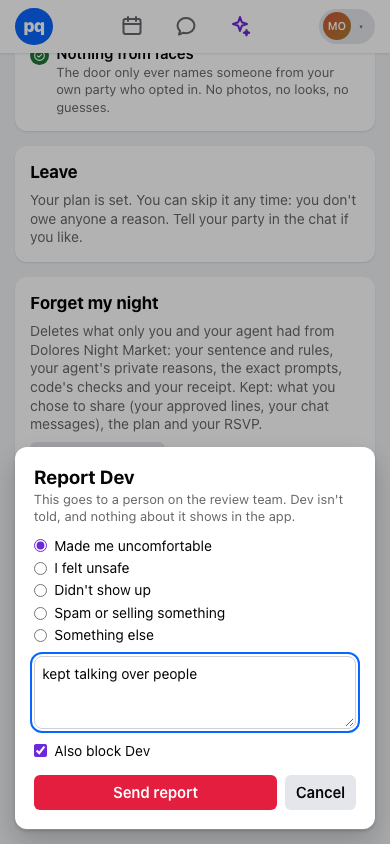
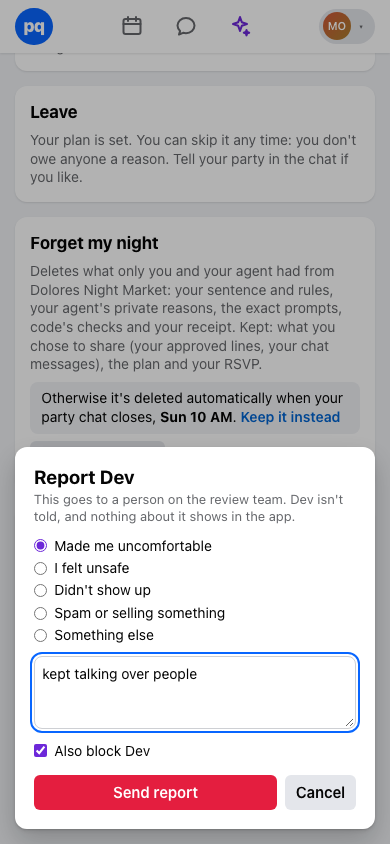
F43: Forget by default after the night
When a party chat closes, every member's private data from that night
is deleted automatically (with the store-wide scan), unless they chose
to keep it. /safety says when; /me and /safety say when it happened.

diff --git a/components/safety/ForgetNight.tsx b/components/safety/ForgetNight.tsx
@@ -14,7 +14,12 @@ const WHERE: Record<string, string> = {
 };
 
 /** "Forget my night": a two-step delete, then the scan's result in plain words. */
-export function ForgetNight({ partyId, title, done }: { partyId: string; title: string; done: boolean }) {
+export function ForgetNight({ partyId, title, done, auto = null }: { partyId: string; title: string; done: boolean; auto?: { at: string; keep: boolean; happened: boolean } | null }) {
+  const [keep, setKeep] = useState(auto?.keep ?? false);
+  const toggleKeep = async () => {
+    const r = await fetch("/api/forget/keep", { method: "POST", headers: { "content-type": "application/json" }, body: JSON.stringify({ partyId, keep: !keep }) });
+    if (r.ok) setKeep(!keep);
+  };
   const router = useRouter();
   const [step, setStep] = useState<"idle" | "confirm" | "busy">("idle");
   const [result, setResult] = useState<ForgetResult | null>(null);
@@ -62,7 +67,9 @@ export function ForgetNight({ partyId, title, done }: { partyId: string; title: 
   if (done) {
     return (
       <p className="mt-2 text-[14px] text-[var(--color-ink-2)]" data-testid="forget-done">
-        You asked Party Queue to forget your sentence, rules and reasons from {title}. They&apos;re gone.
+        {auto?.happened
+          ? `Your sentence, rules and reasons from ${title} were deleted automatically after the night. They're gone.`
+          : `You asked Party Queue to forget your sentence, rules and reasons from ${title}. They're gone.`}
       </p>
     );
   }
@@ -72,6 +79,20 @@ export function ForgetNight({ partyId, title, done }: { partyId: string; title: 
         Deletes what only you and your agent had from {title}: your sentence and rules, your agent&apos;s private reasons, the exact prompts, code&apos;s checks and your receipt. Kept: what you
         chose to share (your approved lines, your chat messages), the plan and your RSVP.
       </p>
+      {auto && (
+        <div className="rounded-[8px] bg-[var(--color-wash)] px-3 py-2 text-[14px]" data-testid="forget-auto">
+          {keep ? (
+            <>You chose to keep it after the night.</>
+          ) : (
+            <>
+              Otherwise it&apos;s deleted automatically when your party chat closes, <b>{auto.at}</b>.
+            </>
+          )}{" "}
+          <button onClick={toggleKeep} data-testid="forget-keep" className="font-semibold text-[var(--color-link)] hover:underline">
+            {keep ? "Delete it automatically after all" : "Keep it instead"}
+          </button>
+        </div>
+      )}
       {step === "idle" && (
         <button onClick={() => setStep("confirm")} data-testid="forget-start" className="press rounded-[6px] bg-[var(--color-btn-2)] px-3 py-2 text-[15px] font-semibold">
           Forget my night

diff --git a/lib/server/forget.ts b/lib/server/forget.ts
@@ -1,4 +1,5 @@
 import { flag } from "@/lib/flags";
+import { chatExpiry, demoNow } from "./clock";
 import { profile, store } from "./store";
 
 /**
@@ -127,3 +128,54 @@ export function forgetNight(partyId: string, userId: string): ForgetResult {
 }
 
 export const isForgotten = (partyId: string, userId: string) => store().forgotten.has(`${partyId}:${userId}`);
+
+/* ----------------------- F43: forget by default ----------------------- */
+
+/** "Sun 10 AM", in Pacific time where the demo night happens. */
+export function pacificLabel(iso: string): string {
+  const pt = new Date(Date.parse(iso) - 8 * 3600_000);
+  const h = pt.getUTCHours();
+  const m = pt.getUTCMinutes();
+  return `${["Sun", "Mon", "Tue", "Wed", "Thu", "Fri", "Sat"][pt.getUTCDay()]} ${h % 12 === 0 ? 12 : h % 12}${m ? `:${String(m).padStart(2, "0")}` : ""} ${h >= 12 ? "PM" : "AM"}`;
+}
+
+/** When a party's private data goes: when its chat closes (12 hours after the event). */
+export function forgetAt(partyId: string): string | null {
+  const s = store();
+  const party = s.parties.get(partyId);
+  if (!party || party.status !== "locked" || !party.planId) return null;
+  const chat = party.chatId ? s.chats.get(party.chatId) : undefined;
+  if (chat?.expiresAt) return chat.expiresAt;
+  const plan = s.plans.get(party.planId)!;
+  return chatExpiry(plan.date, plan.start, plan.end);
+}
+
+/** Delete every member's private data from parties whose night is over, except for anyone who chose to keep it. */
+export function autoForgetDue(now: number = demoNow()): number {
+  if (!flag("AUTO_FORGET") || !flag("FORGET_ME")) return 0;
+  const s = store();
+  let n = 0;
+  for (const party of s.parties.values()) {
+    const at = forgetAt(party.id);
+    if (!at || now < Date.parse(at)) continue;
+    for (const id of party.memberIds) {
+      const k = `${party.id}:${id}`;
+      if (s.forgotten.has(k) || s.keepNight.has(k)) continue;
+      forgetNight(party.id, id);
+      s.autoForgotten.add(k);
+      n++;
+    }
+  }
+  return n;
+}
+
+export function setKeepNight(partyId: string, userId: string, keep: boolean) {
+  const party = store().parties.get(partyId);
+  if (!party || !party.memberIds.includes(userId)) throw new Error("Not your party.");
+  const k = `${partyId}:${userId}`;
+  if (keep) store().keepNight.add(k);
+  else store().keepNight.delete(k);
+}
+
+export const keepsNight = (partyId: string, userId: string) => store().keepNight.has(`${partyId}:${userId}`);
+export const wasAutoForgotten = (partyId: string, userId: string) => store().autoForgotten.has(`${partyId}:${userId}`);

diff --git a/tests/unit/autoforget.test.ts b/tests/unit/autoforget.test.ts
@@ -1,0 +1,50 @@
+import { afterEach, beforeEach, describe, expect, it } from "vitest";
+import { DEMO_PARTY as D } from "@/fixtures";
+import { privatePhrases } from "@/lib/agents/audit";
+import { runParty } from "@/lib/agents/orchestrator";
+import { flag } from "@/lib/flags";
+import { setDemoNow } from "@/lib/server/clock";
+import { autoForgetDue, forgetAt, isForgotten, pacificLabel, scanStore, setKeepNight, wasAutoForgotten } from "@/lib/server/forget";
+import { joinQueue } from "@/lib/server/queue";
+import { resetStore, store } from "@/lib/server/store";
+
+const FIVE = ["dev", "ana", "kai", "zoe", "maya"];
+async function locked() {
+  resetStore();
+  for (const id of FIVE) await joinQueue({ userId: id, eventId: D.entryEventId, sentence: D.sentences[id]!, consentBridges: true, startTalk: false });
+  const pid = [...store().parties.keys()][0]!;
+  await runParty(pid, { paceMs: 0 });
+  return pid;
+}
+
+describe("forget by default after the night (F43)", () => {
+  beforeEach(() => {
+    process.env.PQ_PACE_MS = "0";
+  });
+  afterEach(() => setDemoNow(null));
+
+  it("is on by default", () => expect(flag("AUTO_FORGET")).toBe(true));
+
+  it("nothing goes before the chat closes; after, every member's private data is deleted and the store holds none of their words", async () => {
+    const pid = await locked();
+    const at = forgetAt(pid)!;
+    expect(pacificLabel(at)).toBe("Sun 10 AM"); // 12 hours after the market ends
+    const words = FIVE.flatMap((id) => privatePhrases(pid, id));
+    expect(autoForgetDue(Date.parse(at) - 60_000)).toBe(0);
+    expect(scanStore(words).found.length).toBeGreaterThan(0);
+    expect(autoForgetDue(Date.parse(at) + 60_000)).toBe(5);
+    for (const id of FIVE) expect(isForgotten(pid, id) && wasAutoForgotten(pid, id)).toBe(true);
+    // Words two members share may still be another's own; every phrase unique to its owner is gone.
+    expect(scanStore(words).found).toEqual([]);
+    expect(autoForgetDue(Date.parse(at) + 120_000)).toBe(0); // once only
+  });
+
+  it("someone who chose to keep it keeps it", async () => {
+    const pid = await locked();
+    setKeepNight(pid, "maya", true);
+    expect(autoForgetDue(Date.parse(forgetAt(pid)!) + 60_000)).toBe(4);
+    expect(isForgotten(pid, "maya")).toBe(false);
+    expect(store().briefs.get("brief-maya")!.sentence).toBe(D.sentences.maya);
+    expect(() => setKeepNight(pid, "priya", true)).toThrow("Not your party.");
+  });
+});

diff --git a/app/safety/page.tsx b/app/safety/page.tsx
@@ -5,13 +5,14 @@ import { IconCheck } from "@/components/icons";
 import { LeaveParty } from "@/components/party/LeaveParty";
 import { SafetyPeople } from "@/components/safety/SafetyPeople";
 import { ForgetNight } from "@/components/safety/ForgetNight";
-import { isForgotten } from "@/lib/server/forget";
+import { forgetAt, isForgotten, keepsNight, pacificLabel, wasAutoForgotten } from "@/lib/server/forget";
 import { flag } from "@/lib/flags";
 import { queueStatus } from "@/lib/server/queue";
 import { partyPeople } from "@/lib/server/safety";
 import { partyForViewer } from "@/lib/server/social";
 import { profile, store } from "@/lib/server/store";
 import { currentViewerId } from "@/lib/server/viewer";
+import { autoForgetDue } from "@/lib/server/forget";
 
 export const metadata: Metadata = { title: "Safety" };
 export const dynamic = "force-dynamic";
@@ -27,6 +28,7 @@ const ENFORCED = [
 
 export default async function SafetyPage() {
   if (!flag("SAFETY_PAGE")) notFound();
+  autoForgetDue(); // F43: a night that is over forgets itself
   const viewer = await currentViewerId();
   const me = profile(viewer);
   const people = partyPeople(viewer).map((id) => {
@@ -83,7 +85,16 @@ export default async function SafetyPage() {
       {flag("FORGET_ME") && party && (party.status === "locked" || party.status === "failed") && (
         <section className="rounded-[12px] bg-white p-4 shadow-[var(--shadow-card)]" data-testid="safety-forget">
           <h2 className="text-[17px] font-bold">Forget my night</h2>
-          <ForgetNight partyId={party.id} title={party.planId ? (store().plans.get(party.planId)?.title ?? "this party") : "this party"} done={isForgotten(party.id, viewer)} />
+          <ForgetNight
+            partyId={party.id}
+            title={party.planId ? (store().plans.get(party.planId)?.title ?? "this party") : "this party"}
+            done={isForgotten(party.id, viewer)}
+            auto={
+              flag("AUTO_FORGET") && forgetAt(party.id)
+                ? { at: pacificLabel(forgetAt(party.id)!), keep: keepsNight(party.id, viewer), happened: wasAutoForgotten(party.id, viewer) }
+                : null
+            }
+          />
         </section>
       )}
 

diff --git a/tests/autoforget.spec.ts b/tests/autoforget.spec.ts
@@ -1,0 +1,36 @@
+import { expect, test } from "@playwright/test";
+import { lockedParty } from "./helpers";
+
+/* F43: private data from a night is deleted automatically when the party chat closes, unless you keep it. */
+
+test.afterEach(async ({ request }) => {
+  await request.post("/api/demo/clock", { data: { to: "now" } });
+});
+
+test("forget by default: Maya sees when it goes, can keep it, and after the night it's gone", async ({ browser, baseURL, request }) => {
+  test.setTimeout(150_000);
+  await lockedParty(request);
+  const ctx = await browser.newContext({ viewport: { width: 390, height: 844 } });
+  await ctx.addCookies([{ name: "pq_viewer", value: "maya", url: baseURL! }]);
+  const page = await ctx.newPage();
+  await page.goto("/safety");
+  const auto = page.getByTestId("forget-auto");
+  await expect(auto).toContainText("Otherwise it's deleted automatically when your party chat closes, Sun 10 AM.");
+  await page.getByTestId("forget-keep").click();
+  await expect(auto).toContainText("You chose to keep it after the night.");
+  await page.getByTestId("forget-keep").click();
+  await expect(auto).toContainText("deleted automatically");
+  await page.getByTestId("safety-forget").screenshot({ path: "shots/f43-auto-forget.png" });
+
+  // The night ends: the clock moves past the chat closing.
+  await request.post("/api/demo/clock", { data: { to: "after-event" } });
+  await page.goto("/me");
+  await expect(page.getByTestId("data-parties")).toContainText("your private data was deleted automatically after the night");
+  await expect(page.locator("main")).not.toContainText("nowhere I have to drink");
+  await page.goto("/safety");
+  await expect(page.getByTestId("forget-done")).toContainText("were deleted automatically after the night");
+  const stage = await (await request.get("/api/stage")).text();
+  for (const w of ["out by eleven", "spending up to 40", "home by midnight", "nothing too loud", "budget around 25"]) expect(stage).not.toContain(w);
+  await page.screenshot({ path: "shots/f43-after.png" });
+  await ctx.close();
+});

diff --git a/lib/server/mydata.ts b/lib/server/mydata.ts
@@ -55,7 +55,8 @@ export function myData(userId: string): { userId: string; name: string; sections
         const v = s.verdicts.filter((x) => x.partyId === p.id && x.ownerId === userId).length;
         const prompts = [...s.prompts.keys()].filter((k) => k.startsWith(`${p.id}:${userId}:`)).length;
         const forgotten = s.forgotten.has(`${p.id}:${userId}`);
-        return `${title(p.planId)} (${p.status}): ${forgotten ? "your private data was forgotten" : `${v} private agent decisions, ${prompts} prompts, ${s.receipts.has(`${p.id}:${userId}`) ? "a receipt" : "no receipt"}`}`;
+        const auto = s.autoForgotten.has(`${p.id}:${userId}`);
+        return `${title(p.planId)} (${p.status}): ${auto ? "your private data was deleted automatically after the night" : forgotten ? "your private data was forgotten" : `${v} private agent decisions, ${prompts} prompts, ${s.receipts.has(`${p.id}:${userId}`) ? "a receipt" : "no receipt"}`}`;
       }),
     },
     {

diff --git a/lib/server/store.ts b/lib/server/store.ts
@@ -72,6 +72,9 @@ export interface Store {
   memory: Map<string, { tag: string; weight: number; from: string }[]>;
   /** F42: people who can't make a locked plan and weren't replaced: `${partyId}:${userId}`. */
   dropped: Set<string>;
+  /** F43: `${partyId}:${userId}` who chose to keep their private data after the night, and who had it deleted automatically. */
+  keepNight: Set<string>;
+  autoForgotten: Set<string>;
   /** Every agent turn's source and latency (for receipts and the stage). */
   agentCalls: { partyId: string; ownerId: string; round: number; source: string; ms: number; note: string | null }[];
   events_log: PQEvent[];
@@ -121,6 +124,8 @@ function fresh(): Store {
     door: new Map(),
     memory: new Map(),
     dropped: new Set(),
+    keepNight: new Set(),
+    autoForgotten: new Set(),
     operator: { fastForward: new Set(), forceLock: new Set(), cancelled: new Set() },
     events_log: [],
     seq: 0,

diff --git a/app/api/forget/keep/route.ts b/app/api/forget/keep/route.ts
@@ -1,0 +1,18 @@
+import { NextResponse } from "next/server";
+import { z } from "zod";
+import { setKeepNight } from "@/lib/server/forget";
+import { currentViewerId } from "@/lib/server/viewer";
+
+const Body = z.object({ partyId: z.string(), keep: z.boolean() });
+
+/** F43: keep your private data after the night instead of having it deleted automatically. */
+export async function POST(req: Request) {
+  const body = Body.safeParse(await req.json().catch(() => null));
+  if (!body.success) return NextResponse.json({ error: "bad request" }, { status: 400 });
+  try {
+    setKeepNight(body.data.partyId, await currentViewerId(), body.data.keep);
+    return NextResponse.json({ ok: true, keep: body.data.keep });
+  } catch (e) {
+    return NextResponse.json({ error: (e as Error).message }, { status: 400 });
+  }
+}

diff --git a/app/party/page.tsx b/app/party/page.tsx
@@ -24,12 +24,14 @@ import { friendMessage } from "@/lib/server/tellfriend";
 import { TellFriend } from "@/components/party/TellFriend";
 import { CantMakeIt } from "@/components/party/CantMakeIt";
 import { hasDropped } from "@/lib/server/refill";
+import { autoForgetDue } from "@/lib/server/forget";
 
 export const metadata: Metadata = { title: "Your party" };
 export const dynamic = "force-dynamic";
 
 export default async function PartyPage({ searchParams }: { searchParams: Promise<{ left?: string; cantmake?: string }> }) {
   const { left, cantmake } = await searchParams;
+  autoForgetDue(); // F43: a night that is over forgets itself
   const viewer = await currentViewerId();
   const v = memberPartyViewForViewer(viewer);
   const s = store();

diff --git a/app/runitback/page.tsx b/app/runitback/page.tsx
@@ -9,12 +9,14 @@ import { dayLabel } from "@/lib/format";
 import { MemoryCard } from "@/components/after/MemoryCard";
 import { LABEL, memoryOf, suggestions } from "@/lib/server/memory";
 import { currentViewerId } from "@/lib/server/viewer";
+import { autoForgetDue } from "@/lib/server/forget";
 
 export const metadata: Metadata = { title: "Run it back" };
 export const dynamic = "force-dynamic";
 
 export default async function RunItBackPage() {
   const viewer = await currentViewerId();
+  autoForgetDue(); // F43: a night that is over forgets itself
   const party = partyForViewer(viewer);
   const plan = party?.planId ? store().plans.get(party.planId) : undefined;
   const view = party ? runItBackView(party.id, viewer) : null;

diff --git a/app/api/demo/clock/route.ts b/app/api/demo/clock/route.ts
@@ -2,6 +2,7 @@ import { NextResponse } from "next/server";
 import { z } from "zod";
 import { clockOffset, demoNow, setDemoNow } from "@/lib/server/clock";
 import { store } from "@/lib/server/store";
+import { autoForgetDue } from "@/lib/server/forget";
 
 export const dynamic = "force-dynamic";
 
@@ -16,6 +17,7 @@ export async function POST(req: Request) {
     const expiries = [...store().chats.values()].map((c) => c.expiresAt).filter((x): x is string => !!x).sort();
     const target = expiries.at(-1) ?? "2026-11-15T18:00:00.000Z";
     setDemoNow(new Date(Date.parse(target) + 60_000).toISOString());
+    autoForgetDue();
   }
   return NextResponse.json({ now: new Date(demoNow()).toISOString(), offsetMs: clockOffset() });
 }

diff --git a/app/chat/[id]/page.tsx b/app/chat/[id]/page.tsx
@@ -10,6 +10,7 @@ import { store } from "@/lib/server/store";
 import { currentViewerId } from "@/lib/server/viewer";
 import { flag } from "@/lib/flags";
 import { explainSources } from "@/lib/server/provenance";
+import { autoForgetDue } from "@/lib/server/forget";
 
 function closesLabel(iso: string): string {
   const d = new Date(iso);
@@ -24,6 +25,7 @@ export const metadata: Metadata = { title: "Chats" };
 export const dynamic = "force-dynamic";
 
 export default async function ChatPage({ params }: { params: Promise<{ id: string }> }) {
+  autoForgetDue(); // F43
   const { id } = await params;
   const viewer = await currentViewerId();
   const view = chatView(id, viewer);
